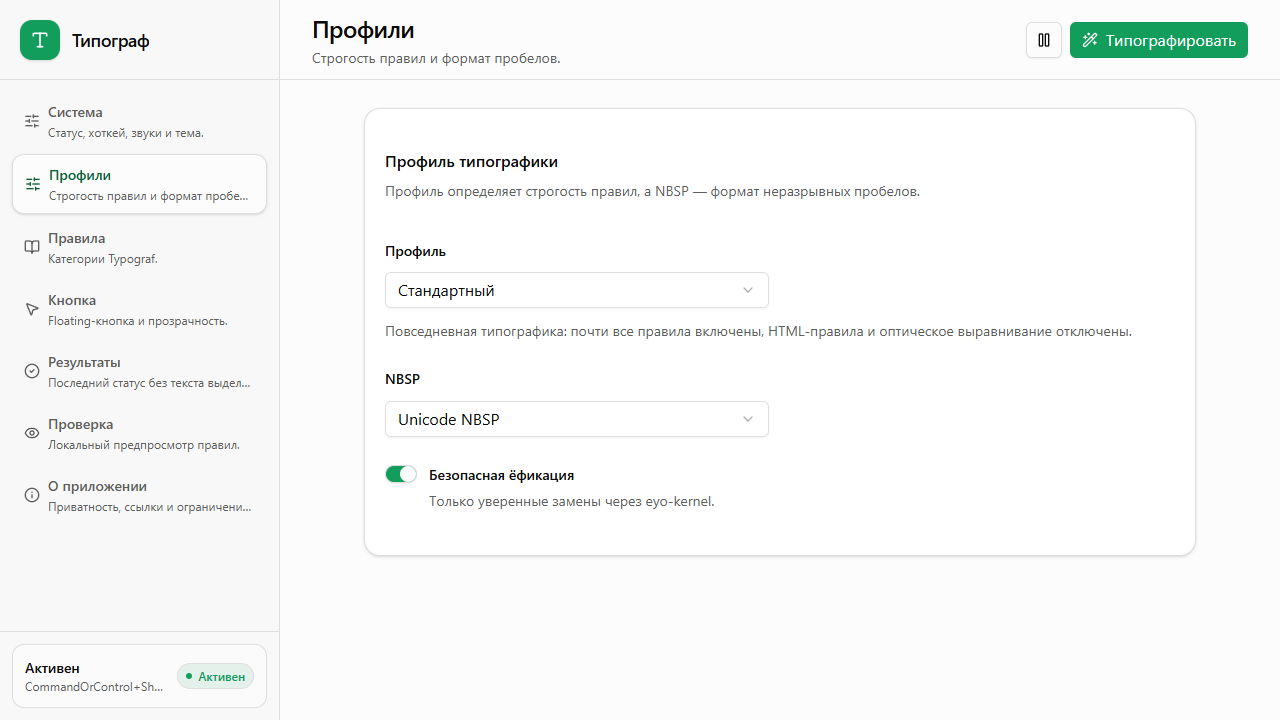
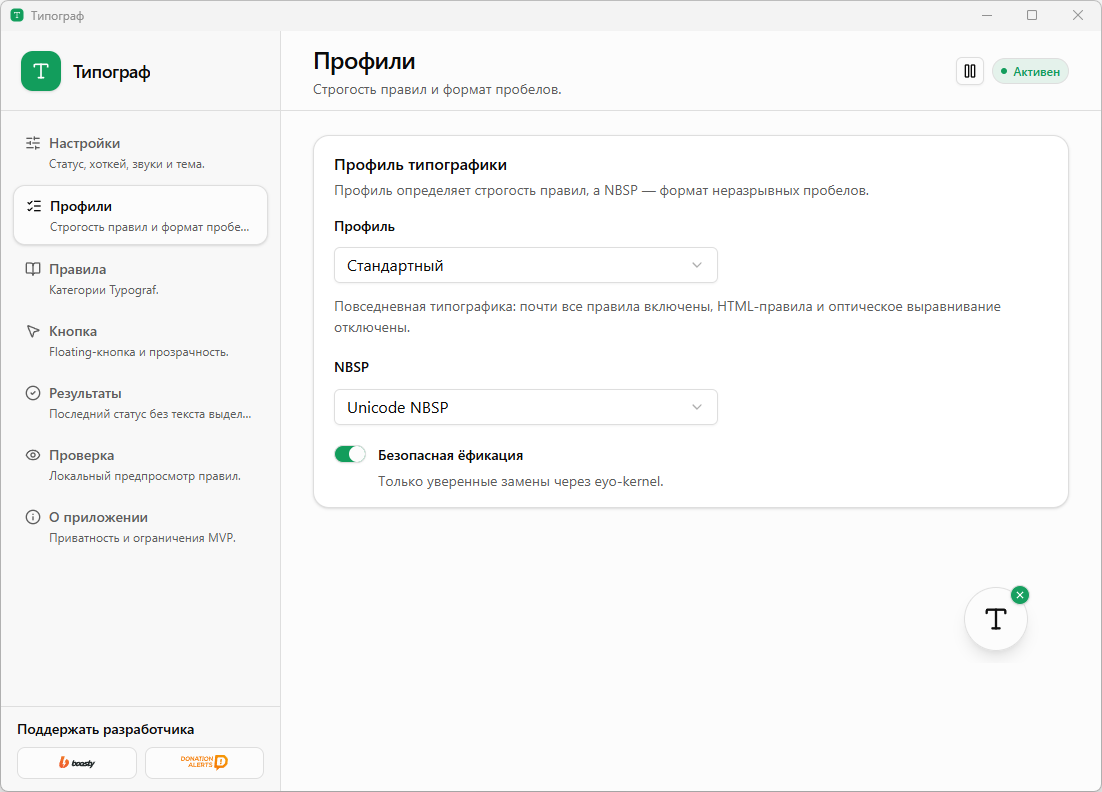
Refresh project screenshots

diff --git a/README.md b/README.md
@@ -19,9 +19,13 @@ FreeTypograf помогает быстро привести выделенный
 
 ## Скриншоты
 
-| Профили | Правила | Результаты |
+| Настройки | Профили | Правила |
 | --- | --- | --- |
-| ![Профили](docs/assets/screenshots/settings-profiles.png) | ![Правила](docs/assets/screenshots/settings-rules.png) | ![Результаты](docs/assets/screenshots/settings-results.png) |
+| ![Настройки](docs/assets/screenshots/settings-overview.png) | ![Профили](docs/assets/screenshots/settings-profiles.png) | ![Правила](docs/assets/screenshots/settings-rules.png) |
+
+| Проверка | О приложении |
+| --- | --- |
+| ![Проверка](docs/assets/screenshots/settings-preview-dark.png) | ![О приложении](docs/assets/screenshots/settings-about-dark.png) |
 
 ## Windows
 
